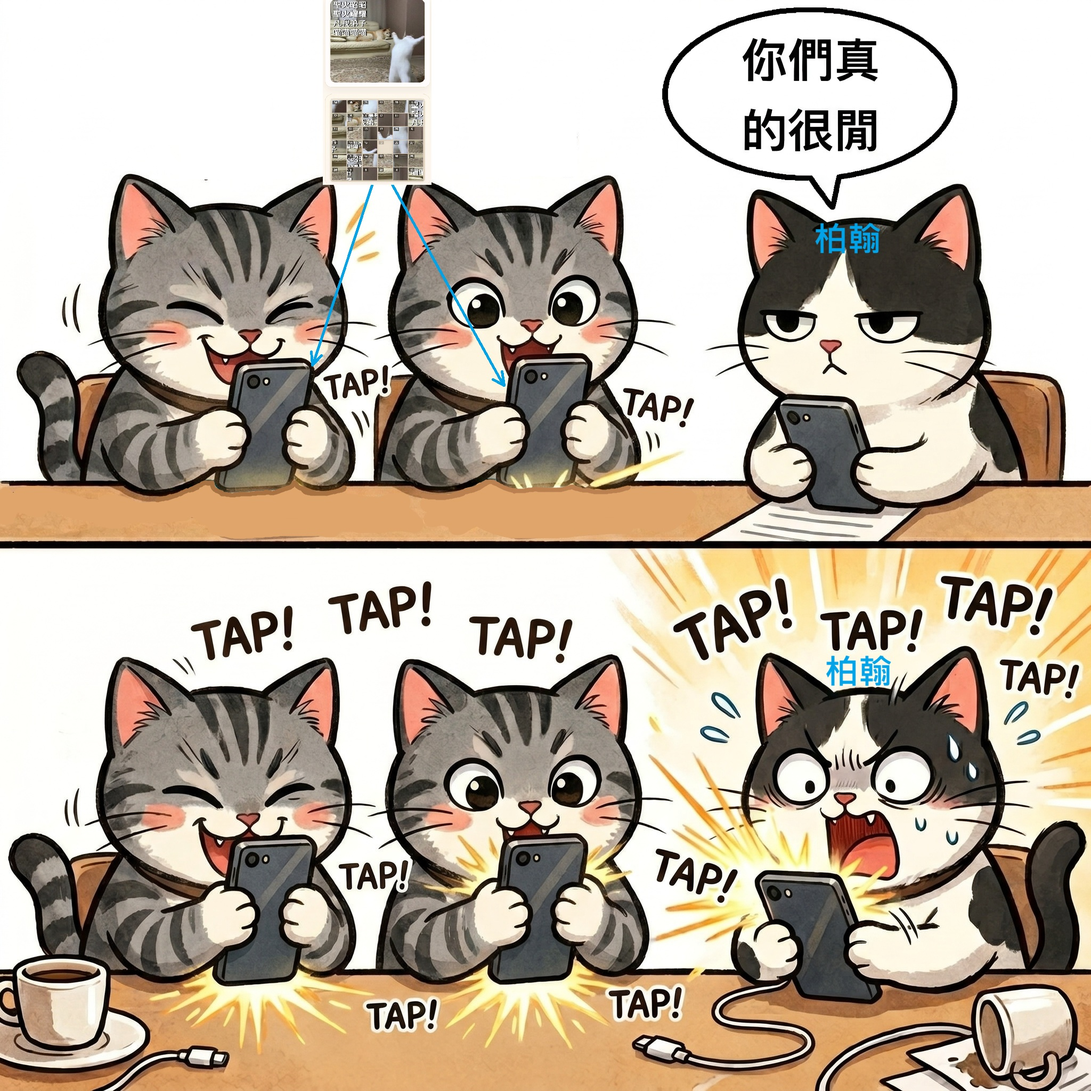
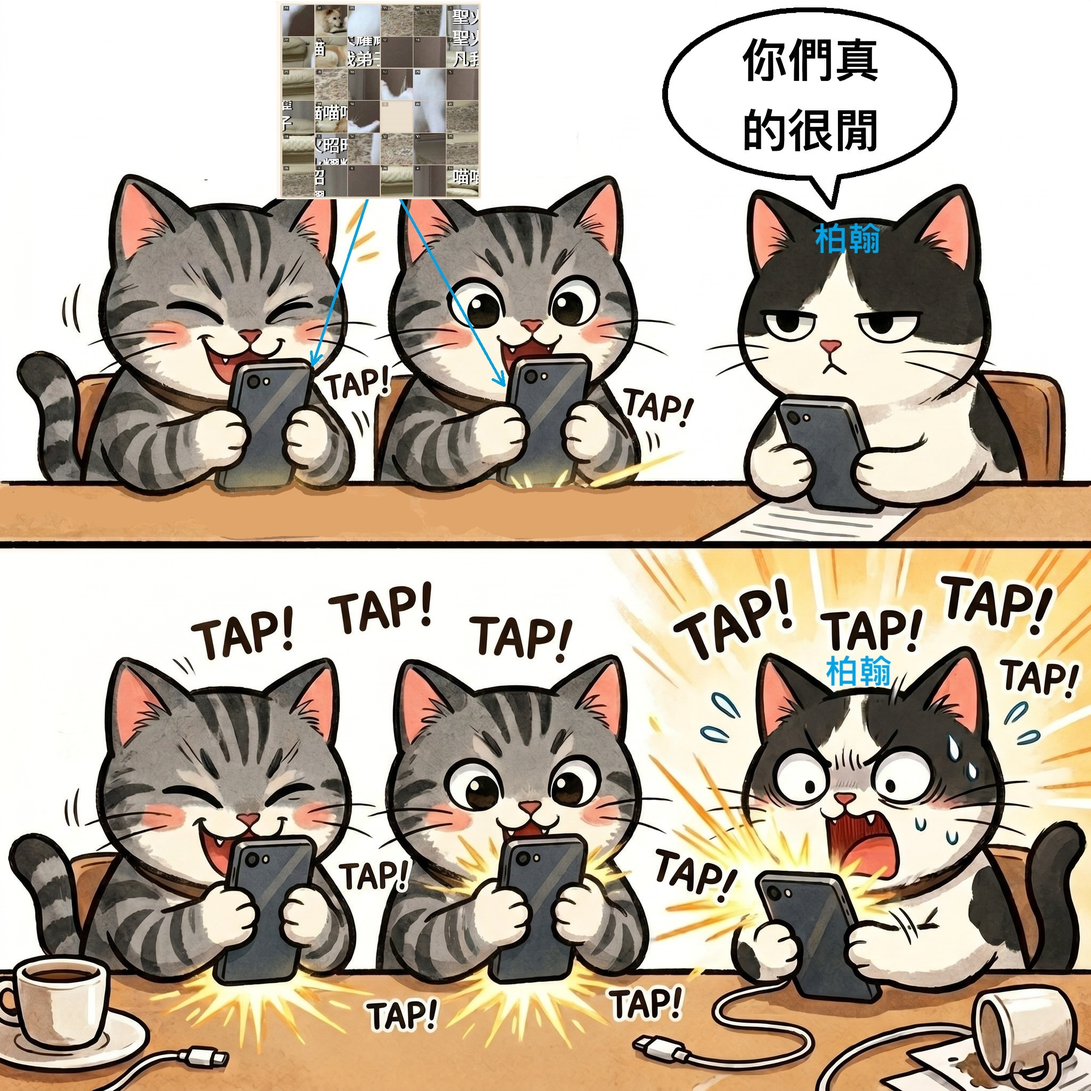
內容

Changed region(s): [[0.25, 0.0, 0.4375, 0.1875]]

diff --git a/image/out_json.py b/image/out_json.py
@@ -3,7 +3,7 @@ import json
 import sys, os 
 os.chdir(sys.path[0])#將當前環境位置設為當前"檔案位置"
 
-image_num = 124
+image_num = 125
 gif_num = 3
 
 data = {
